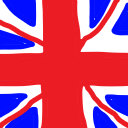
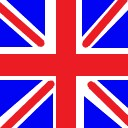
a

diff --git a/index.html b/index.html
@@ -13,10 +13,12 @@
     </div>
     <div id="page">
         <div class="alkuruutu">
-            <img src="kuvat/suomi.jpg" id="kieli">
-            <div class="kielet">
-                
-            </div>
+            <div class="dropdownkielet">
+                <img src="kuvat/suomi.jpg" class="dropbtn" id="kielikuvat">
+                <div class="dropdown-sisalto">
+                  <img src="kuvat/englanti.jpg" id="kielikuvat">
+                </div>
+              </div>
             <br>
             <button type="button" class="nappulat" id="ohjenappula" onclick="ohjeet()">Ohjeet</button>
             <br>
@@ -28,7 +30,7 @@
         
         
         <div class="peliruutu" style="display: none">
-                <p>cum</p>
+                <p>tää</p>
         </div>
     </div>
 </body>

diff --git a/peli.css b/peli.css
@@ -18,11 +18,18 @@ body {
 .nappulat:hover {
     cursor: pointer;
 }
-#kieli {
-    width: 100px;
-    height: 100px;
-    cursor: pointer;
+#kielikuvat {
+    width: 80px;
+    height: 80px;
 }
+.dropdownkielet {
+    position: relative;
+    display: inline-block;
+}
+.dropdown-sisalto {
+    display: none;
+}
+.dropdownkielet:hover .dropdown-sisalto {display: block;}
 #page {
     width: 100%;
     display: flex;
